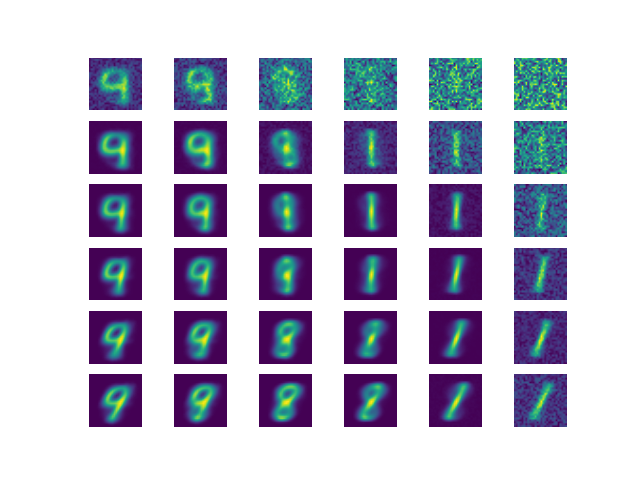
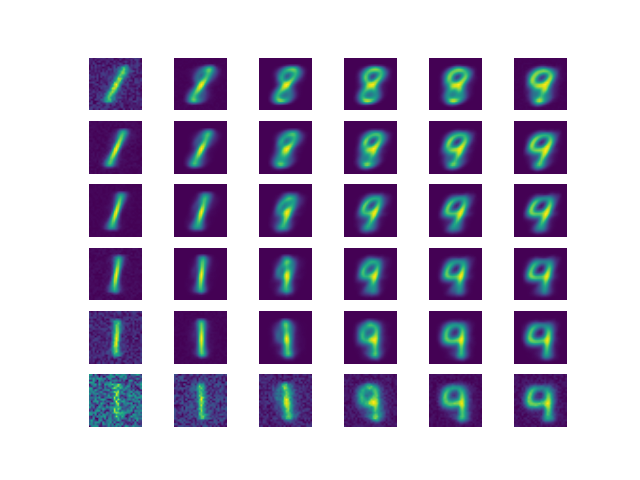
Final commit

diff --git a/miniproject1_data/kohonen.py b/miniproject1_data/kohonen.py
@@ -20,25 +20,38 @@ def run_assignment():
     data = data[np.logical_or.reduce([labels==x for x in targetdigits]),:]
     labels = np.array(labels[np.logical_or.reduce([labels==x for x in targetdigits])])
     
+#    q_errors = np.zeros((25,5))
     #Question 1
+#    for i,eta in enumerate(np.logspace(-4,0,5)):
+#        centers, q_errors[:,i] = kohonen(data, labels, lr = eta, n_epochs = 25)
+#
+#    plb.figure()    
+#    plb.plot(range(1,25+1),q_errors)    
+#    plb.xlabel('Number of epochs')
+#    plb.ylabel('Mean weighted quantization error')
+#    plb.legend(np.logspace(-4,0,5))
+#    plb.show()
+    
+    #Question 2
 #    kohonen(data, labels)
+    
+    #Question 3
+#    kohonen(data, labels, display_label=True, n_epochs=25)
 #    
-#    #Question 2
-#    kohonen(data, labels, display_label=True)
-#    
-#    #Question 3
+#    #Question 4
 #    sizes = [6,8,10]
 #    sigmas = [1,3,5,7]
+#    q_errors = np.zeros((25,3,4))
+#    for i,size in enumerate(sizes):
+#        for j,sigma in enumerate(sigmas):
+#            c, q_errors[:,i,j] = kohonen(data, labels, filter_size=size, neighbourhood_width=sigma, n_epochs = 25)
+#    np.save('q4_learning_curves',q_errors)
 #    
-#    for size in sizes:
-#        for sigma in sigmas:
-#            kohonen(data, labels, filter_size=size, neighbourhood_width=sigma, n_epochs = 25
-    
-    #Question 4
+#    #Question 5
     kohonen_sigma_decay(data, labels, filter_size=8, n_epochs = 25, display_label=True)
 
 
-def kohonen(data, labels, filter_size = 6, neighbourhood_width = 3.0, display_label = False, n_epochs = 100):
+def kohonen(data, labels, filter_size = 6, neighbourhood_width = 3.0, display_label = False, n_epochs = 100, lr = 0.001):
     """Example for using create_data, plot_data and som_step.
     """
     plb.close('all')
@@ -62,7 +75,7 @@ def kohonen(data, labels, filter_size = 6, neighbourhood_width = 3.0, display_la
     neighbor = np.arange(size_k**2).reshape((size_k, size_k))
 
     #set the learning rate
-    eta = 0.001 # HERE YOU HAVE TO SET YOUR OWN LEARNING RATE
+    eta = lr # HERE YOU HAVE TO SET YOUR OWN LEARNING RATE
     
     num_epochs = n_epochs
     #set the maximal iteration count
@@ -82,29 +95,30 @@ def kohonen(data, labels, filter_size = 6, neighbourhood_width = 3.0, display_la
         quantization_errors[epoch] = mean_error
 
     # for visualization, you can use this:
-    for i in range(1, size_k**2+1):
-        ax = plb.subplot(size_k,size_k,i)
-        plb.imshow(np.reshape(centers[i-1,:], [28, 28]),interpolation='bilinear')
-        if display_label:
-            ax.set_title('label ' + str(assign_label(centers[i-1,:],data,labels)))
-        plb.axis('off')
-    
-    if display_label:
-        plb.subplots_adjust(hspace=1.0)
-        plb.savefig('labeled_proto_sigma_'+str(int(sigma))+'_k_'+str(size_k)+'.png')
-    else:
-        plb.savefig('proto_sigma_'+str(int(sigma))+'_k_'+str(size_k)+'.png')
-        plb.figure()
-        plb.plot(range(1,num_epochs+1),quantization_errors)
-        plb.xlabel('Number of epochs')
-        plb.ylabel('Mean weighted quantization error')
-        plb.savefig('weights_sigma_'+str(int(sigma))+'_k_'+str(size_k)+'.png')
+#    for i in range(1, size_k**2+1):
+#        ax = plb.subplot(size_k,size_k,i)
+#        plb.imshow(np.reshape(centers[i-1,:], [28, 28]),interpolation='bilinear')
+#        if display_label:
+#            ax.set_title('label ' + str(assign_label(centers[i-1,:],data,labels)))
+#        plb.axis('off')
+#    
+#    if display_label:
+#        plb.subplots_adjust(hspace=1.0)
+#        plb.savefig('labeled_proto_sigma_'+str(int(sigma))+'_k_'+str(size_k)+'.png')
+#    else:
+#        plb.savefig('proto_sigma_'+str(int(sigma))+'_k_'+str(size_k)+'.png')
+#        plb.figure()
+#        plb.plot(range(1,num_epochs+1),quantization_errors)
+#        plb.xlabel('Number of epochs')
+#        plb.ylabel('Mean weighted quantization error')
+#        plb.savefig('weights_sigma_'+str(int(sigma))+'_k_'+str(size_k)+'.png')
     # leave the window open at the end of the loop
     plb.show()
     plb.draw()
+    return centers, quantization_errors
 
 
-def kohonen_sigma_decay(data, labels, filter_size = 6, display_label = False, n_epochs = 100):
+def kohonen_sigma_decay(data, labels, filter_size = 6, display_label = False, n_epochs = 100, lr = 0.001):
     """Example for using create_data, plot_data and som_step.
     """
     plb.close('all')
@@ -121,7 +135,7 @@ def kohonen_sigma_decay(data, labels, filter_size = 6, display_label = False, n_
     #describes it
     sigma_0 = filter_size/2
     counter = 0
-    tau = 10000/np.log(sigma_0)
+    tau = 20000/np.log(sigma_0)
     
     #initialise the centers randomly
     centers = np.random.rand(size_k**2, dim) * data_range
@@ -130,7 +144,7 @@ def kohonen_sigma_decay(data, labels, filter_size = 6, display_label = False, n_
     neighbor = np.arange(size_k**2).reshape((size_k, size_k))
 
     #set the learning rate
-    eta = 0.001 # HERE YOU HAVE TO SET YOUR OWN LEARNING RATE
+    eta = lr # HERE YOU HAVE TO SET YOUR OWN LEARNING RATE
     
     num_epochs = n_epochs
     #set the maximal iteration count
@@ -173,6 +187,7 @@ def kohonen_sigma_decay(data, labels, filter_size = 6, display_label = False, n_
     # leave the window open at the end of the loop
     plb.show()
     plb.draw()
+    return centers, quantization_errors
 
 
 def assign_label(center, data, labels):
